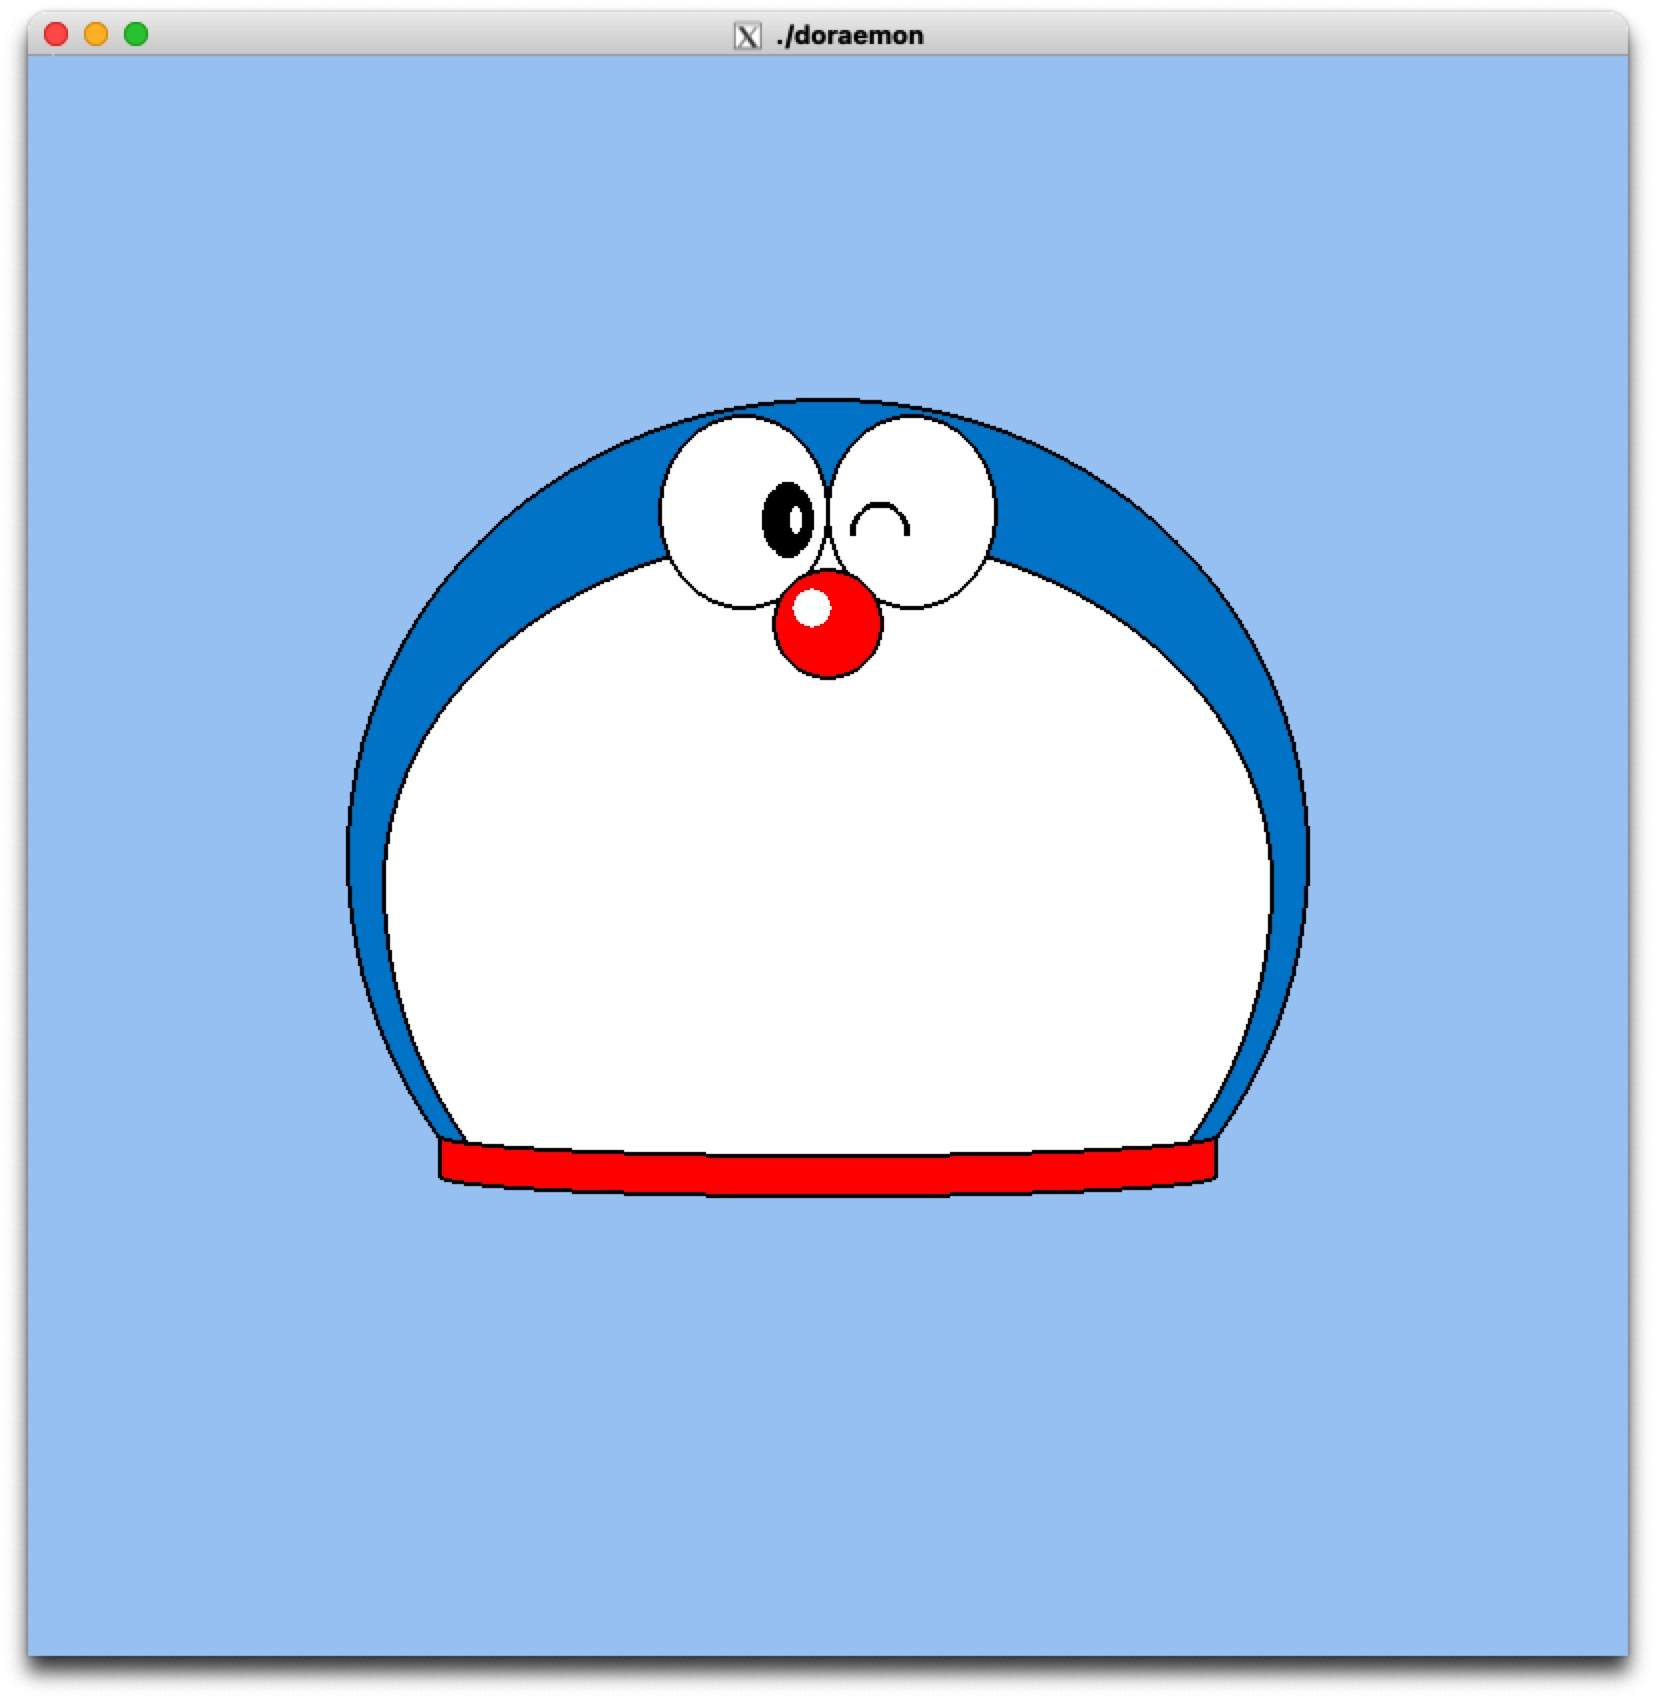
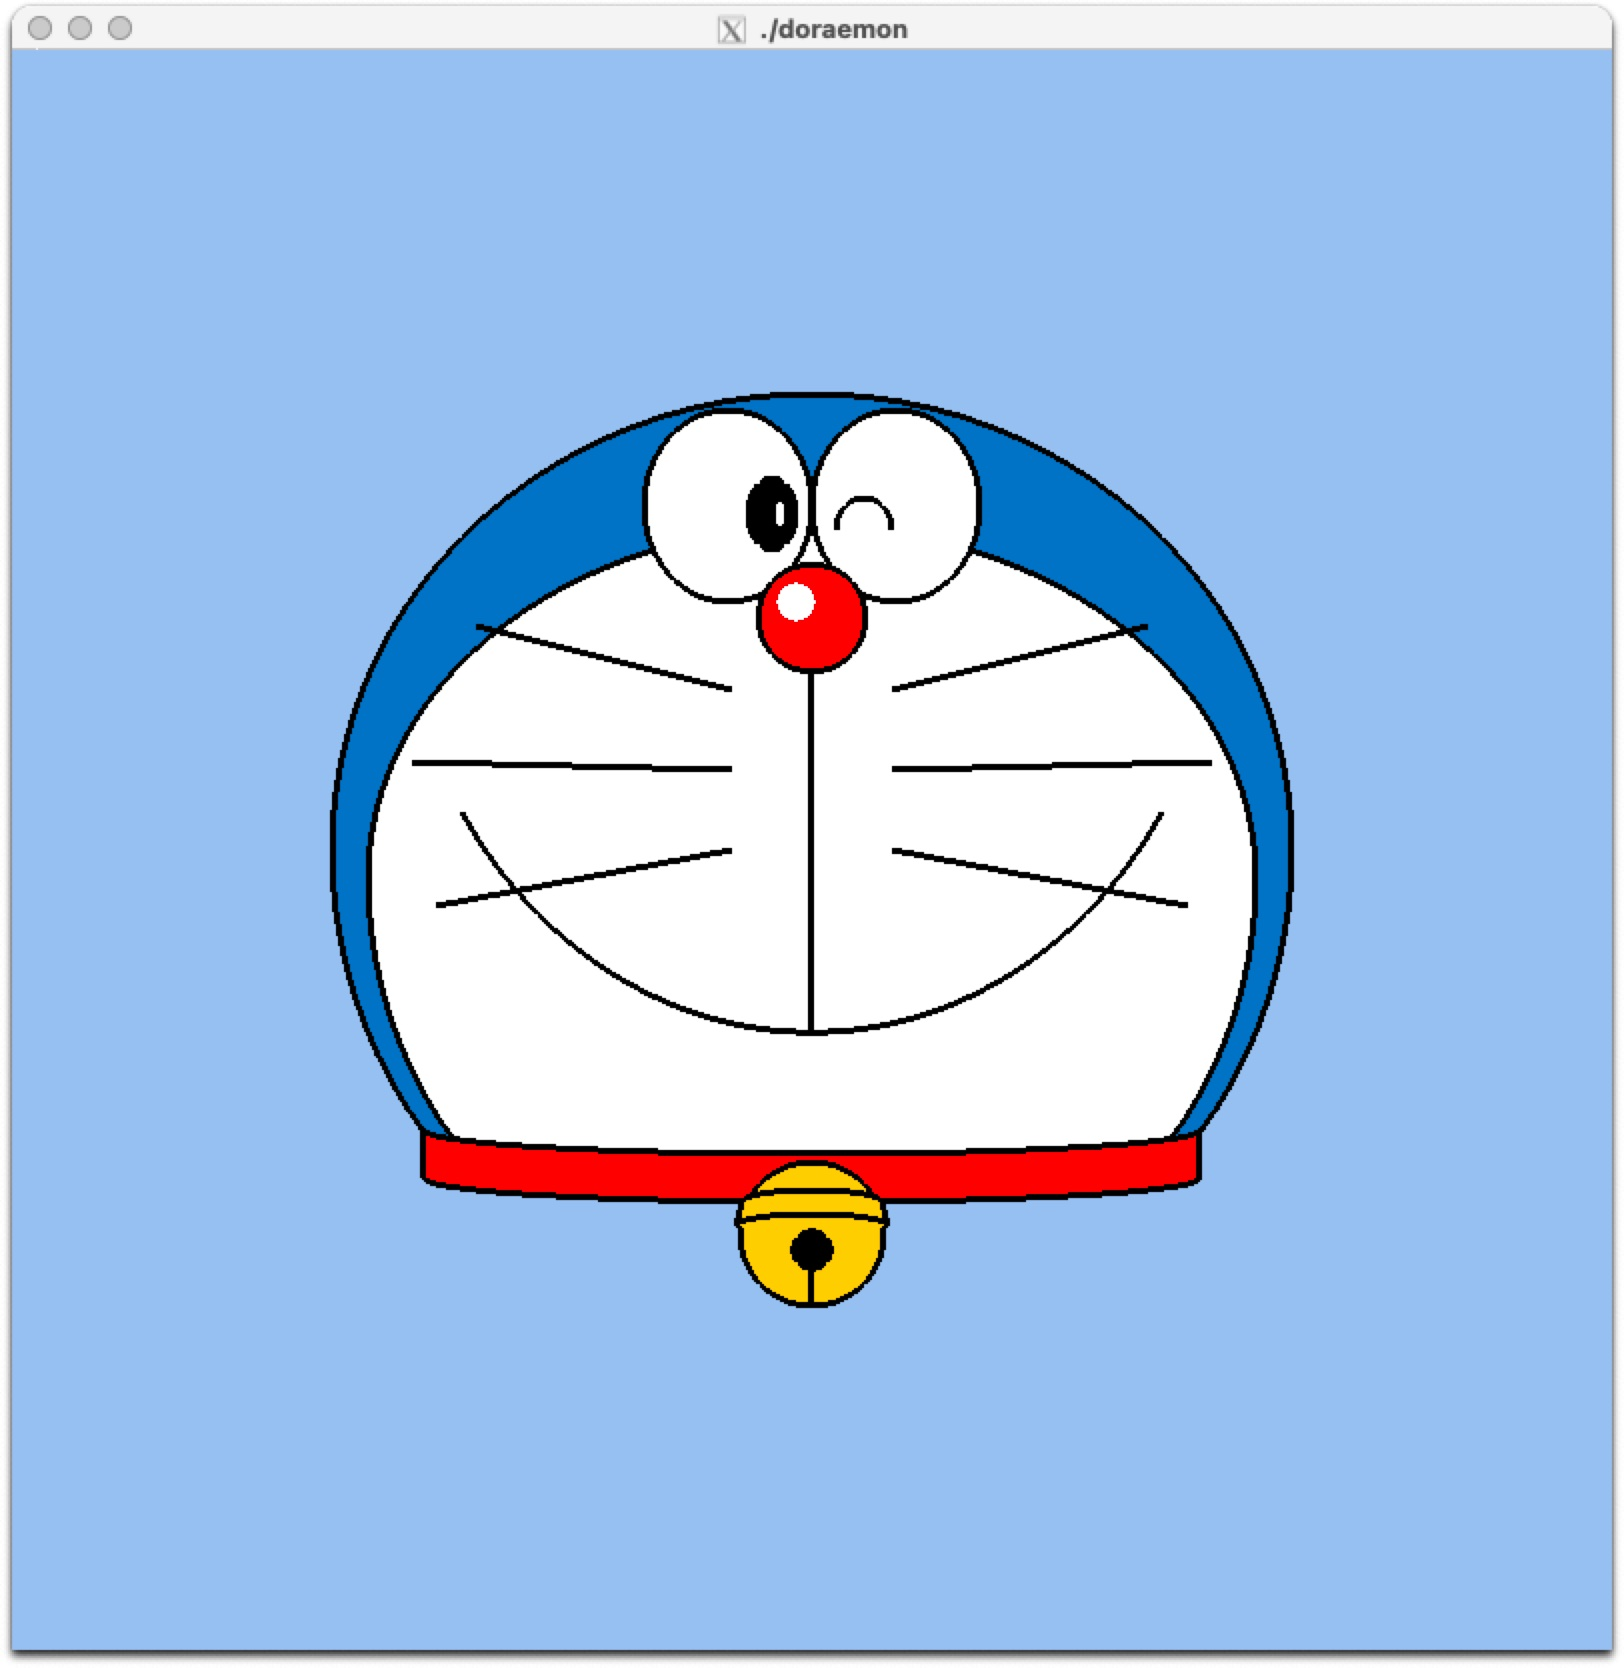
口、ひげ、ベルのデザインを追加・調整

diff --git a/week-1/doraemon.c b/week-1/doraemon.c
@@ -2,7 +2,7 @@
 #include <math.h>
 #include "doraemon.h"
 
-// Draw Circle
+// Draw Flattened Circle (Head)
 void drawFlattenedCircle(float x, float y, float radius, float r, float g, float b, float flattenFactor)
 {
     int numSegments = 100;
@@ -29,7 +29,7 @@ void drawFlattenedCircle(float x, float y, float radius, float r, float g, float
 
     // Draw the black outline
     glColor3f(0.0, 0.0, 0.0);
-    glLineWidth(2.0);
+    glLineWidth(3.0);
     glBegin(GL_LINE_LOOP);
     for (int i = 0; i < numSegments; i++)
     {
@@ -48,6 +48,7 @@ void drawFlattenedCircle(float x, float y, float radius, float r, float g, float
     glEnd();
 }
 
+// Draw Circle
 void drawCircle(float x, float y, float radius, float r, float g, float b)
 {
     int numSegments = 100;
@@ -69,7 +70,7 @@ void drawCircle(float x, float y, float radius, float r, float g, float b)
 
     // Draw the black outline
     glColor3f(0.0, 0.0, 0.0);
-    glLineWidth(2.0);
+    glLineWidth(3.0);
     glBegin(GL_LINE_LOOP);
     for (int i = 0; i < numSegments; i++)
     {
@@ -83,6 +84,7 @@ void drawCircle(float x, float y, float radius, float r, float g, float b)
     glEnd();
 }
 
+// Nose Inner Circle
 void drawCircleNoOutline(float x, float y, float radius, float r, float g, float b)
 {
     int numSegments = 100;
@@ -124,7 +126,7 @@ void drawVerticalOval(float x, float y, float radiusX, float radiusY, float r, f
 
     // Draw black outline
     glColor3f(0.0, 0.0, 0.0);
-    glLineWidth(2.0);
+    glLineWidth(3.0);
     glBegin(GL_LINE_LOOP);
     for (int i = 0; i < numSegments; i++)
     {
@@ -143,7 +145,7 @@ void drawWink(float x, float y, float radiusX, float radiusY, int topHalf)
     float angleEnd = topHalf ? 3.14159 : 2 * 3.14159;
 
     glColor3f(0.0, 0.0, 0.0);
-    glLineWidth(2.5);
+    glLineWidth(3.0);
     glBegin(GL_LINE_STRIP);
     for (int i = 0; i <= numSegments; i++)
     {
@@ -180,18 +182,81 @@ void drawNose()
     // TODO: Implement drawing of the red nose and white inner nose
     drawCircle(0.0, 0.29, 0.067, 1.0, 0.0, 0.0);
     drawCircleNoOutline(-0.02, 0.31, 0.024, 1.0, 1.0, 1.0);
+
+    glColor3f(0.0, 0.0, 0.0);
+    glLineWidth(3.0);
+    glBegin(GL_LINES);
+    glVertex2f(0.0, 0.22);
+    glVertex2f(0.0, -0.23);
+    glEnd();
 }
 
 // 4. Mouth
 void drawMouth()
 {
     // TODO: Implement drawing of the vertical line and the smile
+    glColor3f(0.0, 0.0, 0.0);
+    glLineWidth(3.0);
+    glBegin(GL_LINE_STRIP);
+
+    int numSegments = 100;
+    float centerX = 0.0;
+    float centerY = 0.37;
+    float radius = 0.52;
+    float startAngle = 3.14159 * 2 / 11;
+    float endAngle = 3.14159 * 9 / 11;
+    float deepnessFactor = 1.15;
+
+    for (int i = 0; i <= numSegments; i++)
+    {
+        float angle = startAngle + (endAngle - startAngle) * i / numSegments;
+        float x = radius * cos(angle);
+        float y = radius * sin(angle);
+
+        if (y > 0)
+        {
+            y *= deepnessFactor;
+        }
+
+        glVertex2f(centerX + x, centerY - y);
+    }
+    glEnd();
 }
 
 // 5. Moustache
 void drawMoustache()
 {
     // TODO: Implement drawing of the moustache
+    glColor3f(0.0, 0.0, 0.0);
+    glLineWidth(3.0);
+
+    glBegin(GL_LINES);
+
+    // Top left whisker
+    glVertex2f(-0.1, 0.2);
+    glVertex2f(-0.42, 0.28);
+
+    // Middle left whisker
+    glVertex2f(-0.1, 0.1);
+    glVertex2f(-0.5, 0.11);
+
+    // Bottom left whisker
+    glVertex2f(-0.1, 0.0);
+    glVertex2f(-0.47, -0.07);
+
+    // Top right whisker
+    glVertex2f(0.1, 0.2);
+    glVertex2f(0.42, 0.28);
+
+    // Middle right whisker
+    glVertex2f(0.1, 0.1);
+    glVertex2f(0.5, 0.11);
+
+    // Bottom right whisker
+    glVertex2f(0.1, 0.0);
+    glVertex2f(0.47, -0.07);
+
+    glEnd();
 }
 
 // 6. Collar
@@ -200,7 +265,7 @@ void drawCollar()
     float centerX = 0.0;
     float centerY = -0.35;
     float width = 0.97;
-    float height = 0.05;
+    float height = 0.06;
 
     float halfWidth = width / 2.0;
     float halfHeight = height / 2.0;
@@ -228,7 +293,7 @@ void drawCollar()
 
     // Draw black outline
     glColor3f(0.0, 0.0, 0.0);
-    glLineWidth(2.0);
+    glLineWidth(3.0);
 
     glBegin(GL_LINE_LOOP);
     for (int i = 0; i <= 100; i++)
@@ -254,6 +319,69 @@ void drawCollar()
 void drawBell()
 {
     // TODO: Implement drawing of the outer bell and inner bell
+
+    // Outer bell (yellow)
+    drawCircle(0.0, -0.48, 0.09, 1.0, 215.0 / 255.0, 0.0);
+
+    // Inner black circle
+    drawCircle(0.0, -0.50, 0.023, 0.0, 0.0, 0.0);
+
+    // Small black line
+    glColor3f(0.0, 0.0, 0.0);
+    glLineWidth(3.0);
+    glBegin(GL_LINES);
+    glVertex2f(0.0, -0.485);
+    glVertex2f(0.0, -0.57);
+    glEnd();
+
+    // Inner bell design (yellow, upside-down arc)
+    float centerX = 0.0;
+    float centerY = -0.47;
+    float width = 0.19;
+    float height = 0.03;  // Arc height
+    float dyStep = 0.001; // Small step for smooth lines
+    int numSegments = 100;
+
+    float halfWidth = width / 2.0;
+    float radiusX = halfWidth;
+    float radiusY = height / 2.0;
+
+    // Loop to draw stacked yellow lines (upside-down)
+    for (float j = 0; j <= height; j += dyStep)
+    {
+        glColor3f(1.0, 215.0 / 255.0, 0.0); // Yellow color
+
+        glBegin(GL_LINE_STRIP);
+        for (int i = 0; i <= numSegments; i++)
+        {
+            float angle = (3.14159 * i / numSegments); // From 0° to 180°
+            float dx = radiusX * cos(angle) * 0.92;
+            float dy = radiusY * sin(angle);
+            glVertex2f(centerX + dx, centerY + dy + j); // Stack lines upward
+        }
+        glEnd();
+    }
+
+    // Black outline for the inner bell design
+    glColor3f(0.0, 0.0, 0.0);
+    glLineWidth(3.0);
+
+    glBegin(GL_LINE_LOOP);
+    for (int i = 0; i <= numSegments; i++)
+    {
+        float angle = (3.14159 * i / numSegments); // From 0° to 180°
+        float dx = radiusX * cos(angle) * 0.92;
+        float dy = radiusY * sin(angle);
+        glVertex2f(centerX + dx, centerY + dy + height); // Top arc
+    }
+    for (int i = 0; i <= numSegments; i++)
+    {
+        float angle = 3.14159 + (3.14159 * i / numSegments); // From 180° to 360°
+        float dx = radiusX * cos(angle);
+        float dy = radiusY * sin(angle);
+        glVertex2f(centerX + dx, centerY - dy); // Bottom arc
+    }
+    glEnd();
 }
 
 // 8. Cover the bottom part of the head
